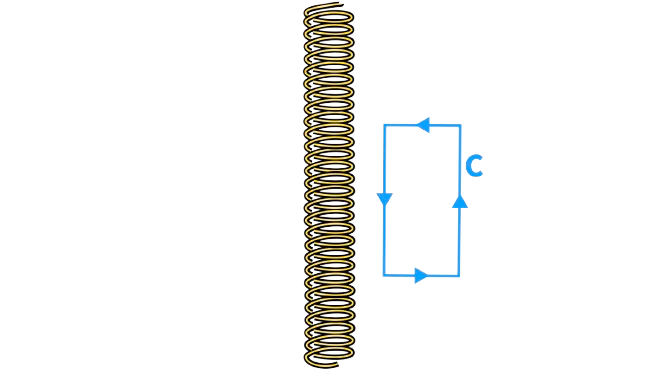
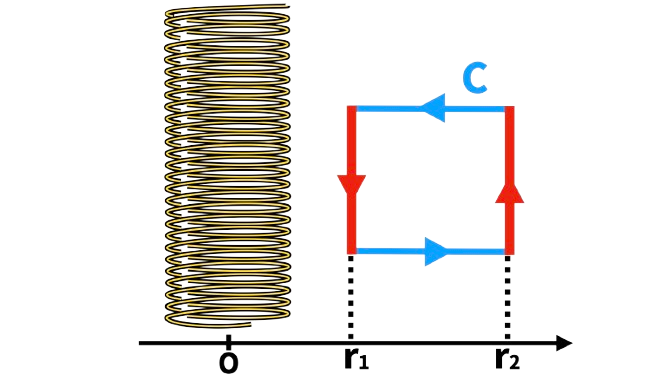
ver2.2.2

Changed region(s): [[0.2108, 0.0, 0.8735, 0.9973], [0.6928, 0.3813, 0.7229, 0.4693]]

diff --git a/lib/theory/electroMagnetism/solenoidMagneticFieldProp.dart b/lib/theory/electroMagnetism/solenoidMagneticFieldProp.dart
@@ -40,7 +40,7 @@ final solenoidMagneticFieldProp = TheoryTopic(
     \\overrightarrow H=H_r(r)\\,\\hat{\\mathbf r}+H_\\phi(r)\\,\\hat{\\boldsymbol\\phi}+H_z(r)\\,\\hat{\\mathbf z}
   \$ と書ける</div>
   <div class="proof-box">証明</div>
-  系は回転対称かつ \$z\$ 方向に並進対称。よって任意の点での場は \$\\phi, z\$ に依らず、各成分は \$r\$ のみの関数となる。\\(\\square\\)
+  系は回転対称かつ \$z\$ 方向に並進対称。よって任意の点での場は \$\\phi, z\$ に依らず、各成分は \$r\$ のみの関数となる。<br>\\(\\square\\)
 
   <div class="theory-common-box">命題2：同心円柱（半径 \$r\$, 高さ \$L\$）を閉曲面とすると、\$ \\displaystyle \\oint_A \\overrightarrow H\\cdot d\\overrightarrow A = 2\\pi r L\\, H_r(r)\$</div>
   <div style="text-align:center; margin:1em 0;">
@@ -49,12 +49,12 @@ final solenoidMagneticFieldProp = TheoryTopic(
       style="max-width:95%; height:auto;" />
   </div>
   <div class="proof-box">証明</div>
-  上下面は \$z\$ 成分のみ、側面は \$r\$ 成分のみが効く。上下面の寄与は命題1より貫く方向が逆であるだけなので、互いに打ち消し合い、側面は側面積と \$H_r(r)\$ の積となるので式の通り。\\(\\square\\)
+  上下面は \$z\$ 成分のみ、側面は \$r\$ 成分のみが効く。上下面の寄与は命題1より貫く方向が逆であるだけなので、互いに打ち消し合い、側面は側面積と \$H_r(r)\$ の積となるので式の通り。<br>\\(\\square\\)
 
   <div class="theory-common-box">命題3：任意の \$r\$ で \$H_r(r)=0\$</div>
   <div class="proof-box">証明</div>
   磁場のガウスの法則より \$\\displaystyle \\oint_A \\overrightarrow H\\cdot d\\overrightarrow A = 0\$。命題2を用いて
-  \$2\\pi r L\\,H_r(r)=0 \\Leftrightarrow H_r(r)=0\$。\\(\\square\\)
+  \$2\\pi r L\\,H_r(r)=0 \\Leftrightarrow H_r(r)=0\$。<br>\\(\\square\\)
 
   <div class="theory-common-box">命題4：任意の \$r\$ で \$H_\\phi(r)=0\$</div>
   <div style="text-align:center; margin:1em 0;">
@@ -64,7 +64,8 @@ final solenoidMagneticFieldProp = TheoryTopic(
   </div>
   <div class="proof-box">証明</div>
   半径 \$r\$ の同心円周を積分経路とする。境界面が張る任意の開曲面を取ると、電流はこの面を貫かないため、
-  \$\\displaystyle \\oint_C \\overrightarrow H\\cdot d\\overrightarrow l = H_\\phi(r)\\,2\\pi r = 0\\Leftrightarrow H_\\phi(r)=0\$。\\(\\square\\)
+  \$\\displaystyle \\oint_C \\overrightarrow H\\cdot d\\overrightarrow l = H_\\phi(r)\\,2\\pi r = 0\\Leftrightarrow H_\\phi(r)=0\$
+  <br>\\(\\square\\)
   
   <div class="theory-common-box">命題5：ソレノイド内部の \$H_z(r)\$ は場所によらず一定</div>
   <div style="text-align:center; margin:1em 0;">
@@ -78,7 +79,7 @@ final solenoidMagneticFieldProp = TheoryTopic(
 \\[
 \\oint_C \\overrightarrow H \\cdot d\\overrightarrow l = 0.
 \\]
-また、この長方形のループについて，垂直辺の\$r\$の値を\$r_1,r_2 \< a\$とすると、\$H_r=0\$であることから、
+また、この長方形のループについて，垂直辺の\$r\$の値を\$r_1,r_2 \< a\$とすると、\$H_r=0\$であることから、縦辺の赤の部分の線積分のみが寄与して
 \\[
 \\oint_C \\overrightarrow H \\cdot d\\overrightarrow l
   = H_z(r_2)\\,L - H_z(r_1)\\,L.
@@ -105,7 +106,7 @@ H_z^{(\\mathrm{in})}(r)=\\text{定数}. \\quad\\square
 \\[
 \\oint_C \\overrightarrow H \\cdot d\\overrightarrow l = 0.
 \\]
-また、この長方形のループについて，垂直辺の\$r\$の値を\$r_1,r_2 \> a\$とすると、\$H_r=0\$であることから、
+また、この長方形のループについて，垂直辺の\$r\$の値を\$r_1,r_2 \> a\$とすると、\$H_r=0\$であることから、縦辺の赤の部分の線積分のみが寄与して
 \\[
 \\oint_C \\overrightarrow H \\cdot d\\overrightarrow l
   = H_z(r_2)\\,L - H_z(r_1)\\,L,
@@ -132,7 +133,7 @@ H_z^{(\\mathrm{out})}(r)=\\text{定数}. \\quad\\square
 \\[
 \\oint_C \\overrightarrow H \\cdot d\\overrightarrow l = nI\\ell .
 \\]
-また、この長方形のループについて，垂直辺の\$r\$の値をそれぞれ\$r_1 \< a ,r_2 \> a\$とすると、\$H_r=0\$であることから、
+また、この長方形のループについて，垂直辺の\$r\$の値をそれぞれ\$r_1 \< a ,r_2 \> a\$とすると、\$H_r=0\$であることから、縦辺の赤の部分の線積分のみが寄与して
 
 \\[
 \\oint_C \\overrightarrow H \\cdot d\\overrightarrow l
@@ -143,8 +144,8 @@ H_z^{(\\mathrm{out})}(r)=\\text{定数}. \\quad\\square
 H_z(r_2)\\ell  - H_z(r_1)\\ell &= nI\\ell. \\\\
 \\Leftrightarrow H_z(r_2)  - H_z(r_1) &= nI 
 \\end{aligned}
-\$r_1 \< a,r_2\> a \$ は任意なので，内部と外部の\$z\$方向磁場の大きさの差が\$nI\$であることが示された。\$\\square\$
-
+\$r_1 \< a,r_2\> a \$ は任意なので，内部と外部の\$z\$方向磁場の大きさの差が\$nI\$であることが示された。
+<br>\\(\\square\\)
 <div class="theory-common-box">命題8：無限遠境界条件により外部の磁場は 0</div>
 <div class="proof-box">証明</div>
 無限遠境界条件として

diff --git a/lib/experiment/ExperimentView.dart b/lib/experiment/ExperimentView.dart
@@ -186,7 +186,7 @@ class VideoDetailView extends StatelessWidget {
   @override
   Widget build(BuildContext context) {
     return Scaffold(
-      appBar: AppBar(title: Text(video.videoURL.isEmpty ? '' : video.title)),
+      appBar: AppBar(title: Text(video.title)),
       body: SingleChildScrollView(
         padding: const EdgeInsets.all(6),
         child: Column(
